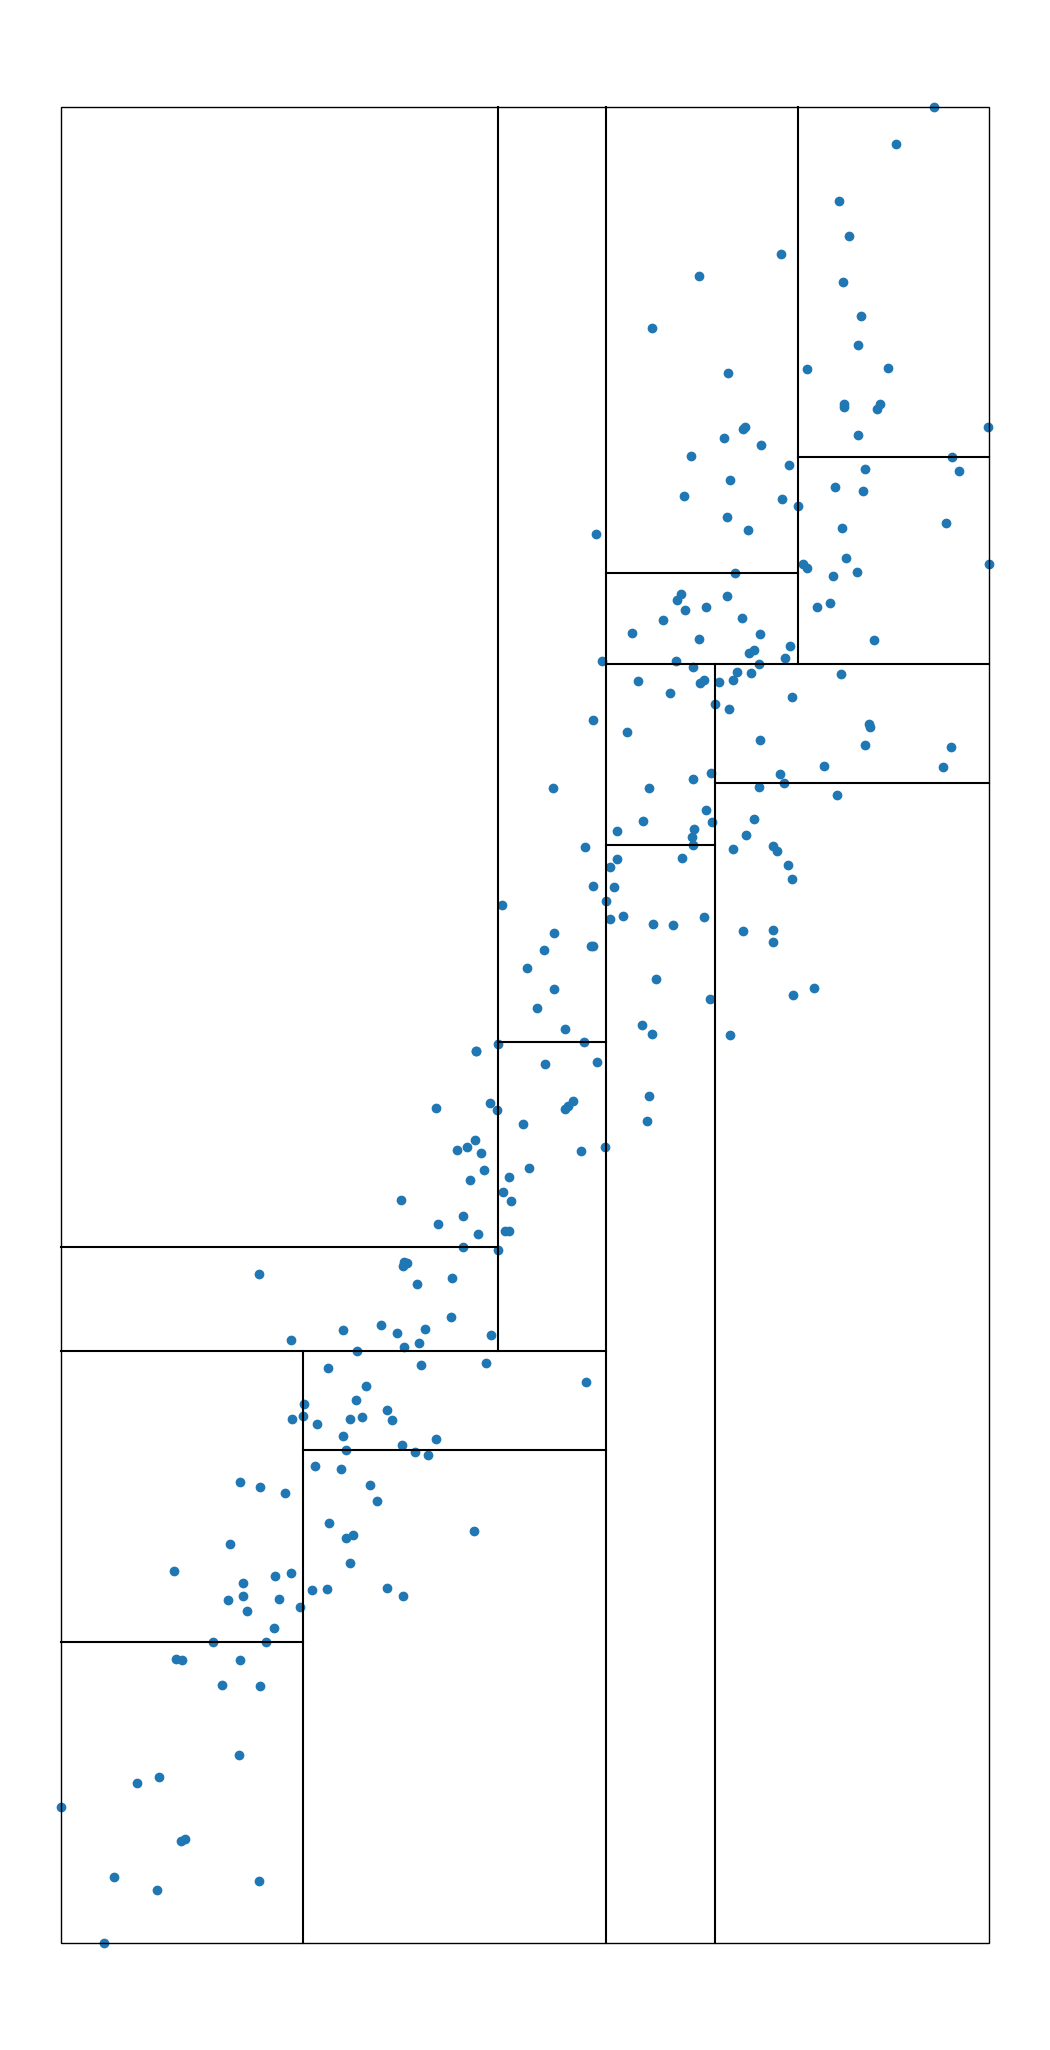
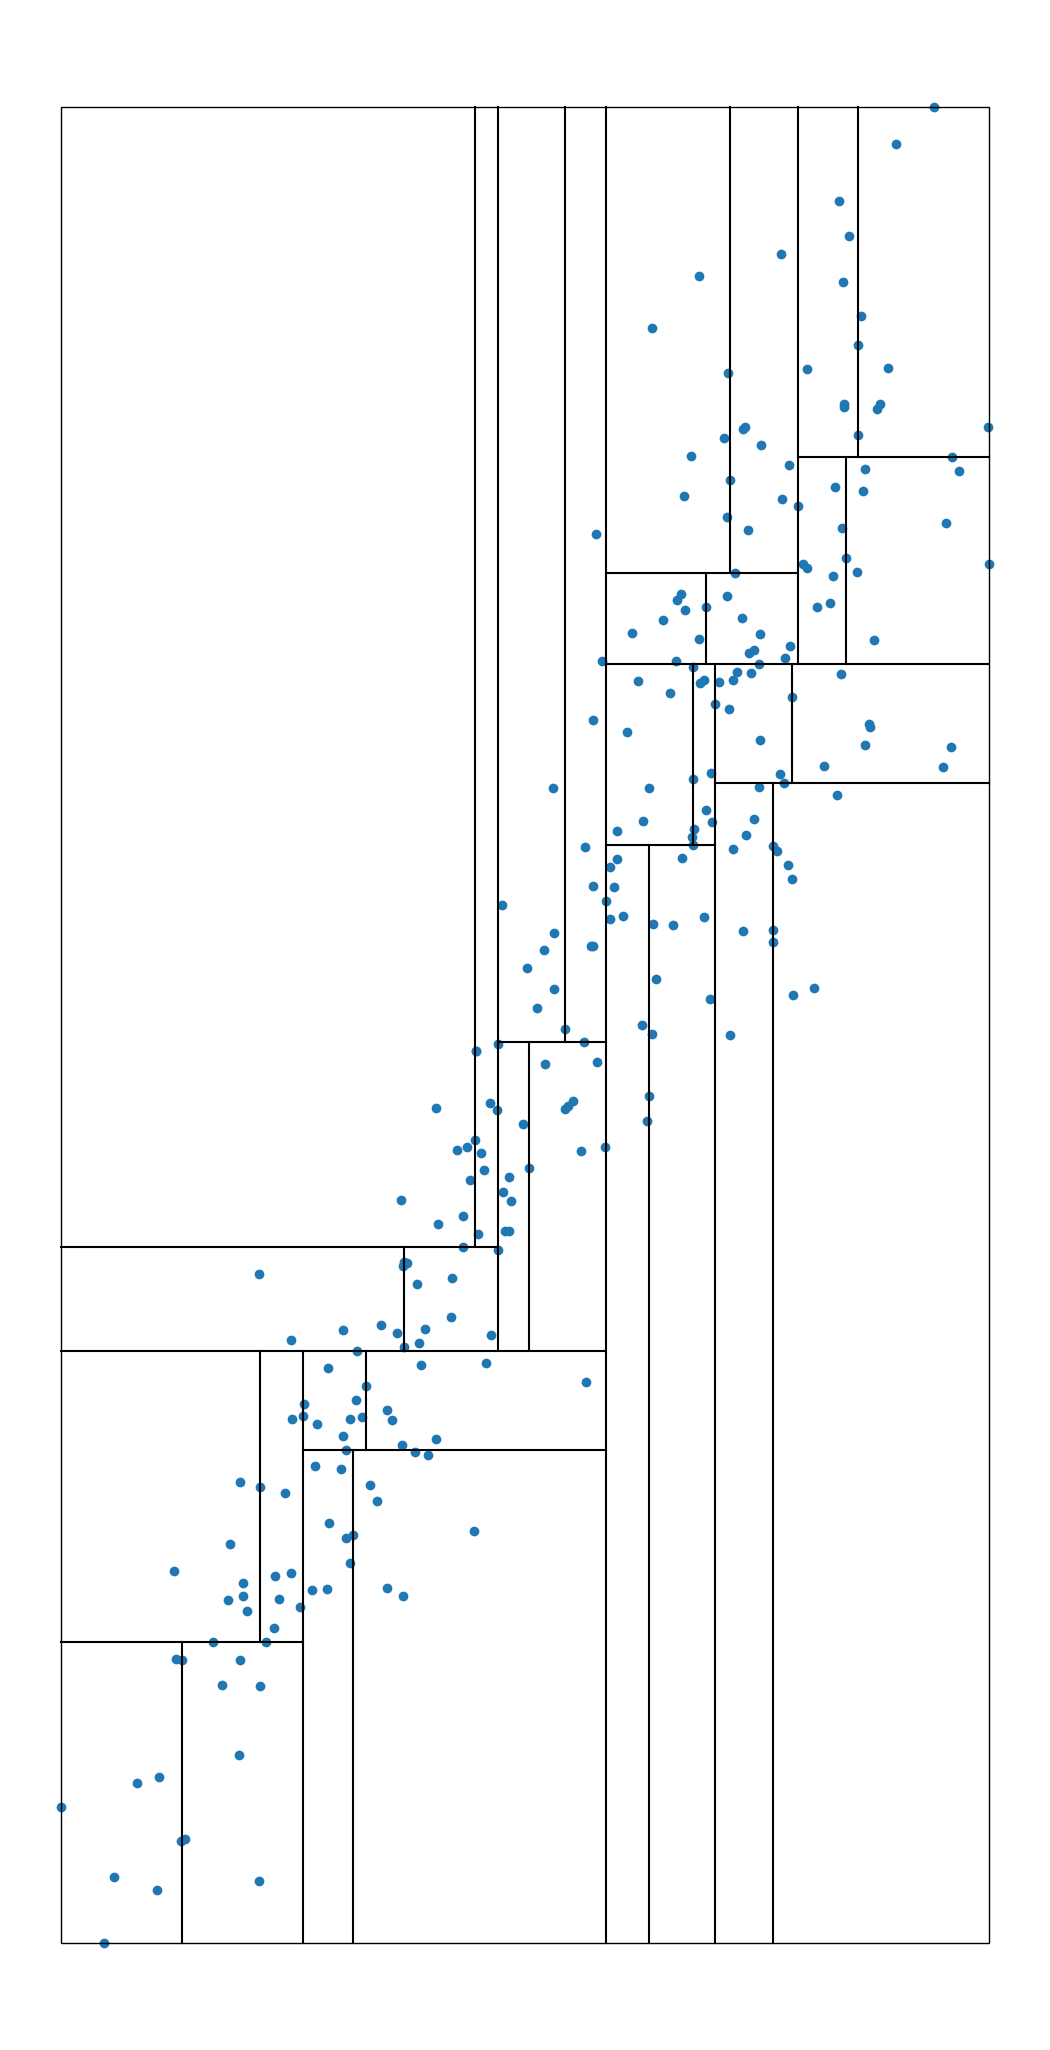
minor fix

diff --git a/Project2/boolean_functions_and_fourier/main.py b/Project2/boolean_functions_and_fourier/main.py
@@ -43,7 +43,7 @@ def extract_features(x):
     return features
 
 
-if __name__ == "__main__":
+def rule110():
     x = np.array([
         [1, 1, 1],
         [1, 1, -1],
@@ -54,10 +54,28 @@ if __name__ == "__main__":
         [-1, -1, 1],
         [-1, -1, -1]
     ])
-
-    x_t = x.T
-
     y = np.array([-1, 1, 1, 1, -1, 1, 1, -1])
+
+    return x, y
+
+
+def rule126():
+    x = np.array([
+        [1, 1, 1],
+        [1, 1, -1],
+        [1, -1, 1],
+        [1, -1, -1],
+        [-1, 1, 1],
+        [-1, 1, -1],
+        [-1, -1, 1],
+        [-1, -1, -1]
+    ])
+    y = np.array([-1, 1, 1, 1, 1, 1, 1, -1])
+
+    return x, y
+
+if __name__ == "__main__":
+    x, y = rule110()
 
     padded_x, w = linear_regression(x, y)
     y_hat = np.dot(padded_x, w)

diff --git a/Project2/task2_5/main.py b/Project2/task2_5/main.py
@@ -37,7 +37,7 @@ if __name__ == "__main__":
 
     data = read_dat_file()
 
-    kd_tree = custom_KDTree(max_depth=3)
+    kd_tree = custom_KDTree(max_depth=4)
 
     kd_tree.create_tree(data, splitting_dim_mode=0, split_point_mode=0)
     kd_tree.draw('mode_0_0.png')
